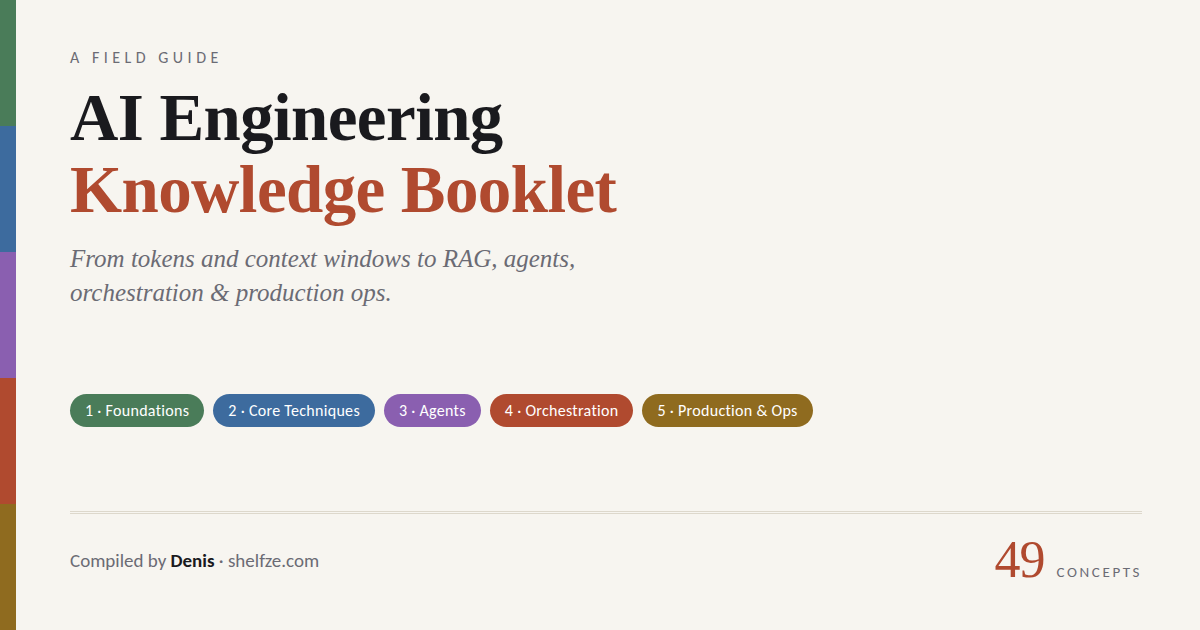
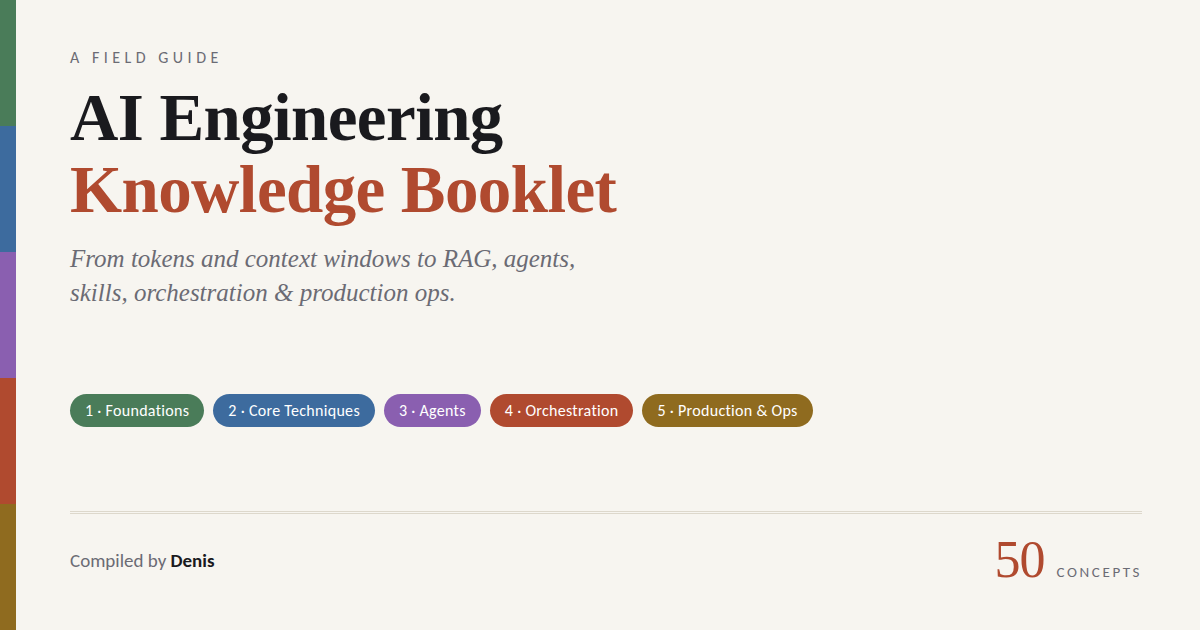
Add Agent Skills concept and remove site from byline
Adds a 50th concept card (Agent Skills) to Level 3, after MCP: SKILL.md structure, three-level progressive disclosure, and why the description field is the trigger. Removes the site link from the byline, the preview card, configure.sh and the README. Updates the count from 49 to 50 in the title, Open Graph and Twitter tags, and regenerates og-image.png.

Changed region(s): [[0.0617, 0.4524, 0.37, 0.4825], [0.8325, 0.8444, 0.8633, 0.9349], [0.185, 0.8746, 0.2775, 0.9048]]

diff --git a/index.html b/index.html
@@ -3,7 +3,7 @@
 <head>
 <meta charset="UTF-8">
 <meta name="viewport" content="width=device-width, initial-scale=1.0">
-<title>AI Engineering Knowledge Booklet — 49 concepts from LLM basics to multi-agent orchestration</title>
+<title>AI Engineering Knowledge Booklet — 50 concepts from LLM basics to multi-agent orchestration</title>
 <meta name="description" content="From tokens and context windows to RAG, agents, orchestration and production ops. Every concept has a quick explanation, a deep dive and curated links.">
 <meta name="author" content="Denis">
 <meta name="theme-color" content="#f7f5f0">
@@ -13,7 +13,7 @@
 <!-- Open Graph (LinkedIn, Facebook, Slack) -->
 <meta property="og:type" content="website">
 <meta property="og:site_name" content="AI Engineering Knowledge Booklet">
-<meta property="og:title" content="AI Engineering Knowledge Booklet — 49 concepts, one page">
+<meta property="og:title" content="AI Engineering Knowledge Booklet — 50 concepts, one page">
 <meta property="og:description" content="From tokens and context windows to RAG, agents, orchestration and production ops. Every concept has a quick explanation, a deep dive and curated links.">
 <meta property="og:url" content="https://jsitla.github.io/AI-Knowledge-Booklet/">
 <meta property="og:image" content="https://jsitla.github.io/AI-Knowledge-Booklet/og-image.png">
@@ -21,15 +21,15 @@
 <meta property="og:image:type" content="image/png">
 <meta property="og:image:width" content="1200">
 <meta property="og:image:height" content="630">
-<meta property="og:image:alt" content="AI Engineering Knowledge Booklet — 49 concepts across five levels, from foundations to production and ops.">
+<meta property="og:image:alt" content="AI Engineering Knowledge Booklet — 50 concepts across five levels, from foundations to production and ops.">
 <meta property="og:locale" content="en_US">
 
 <!-- Twitter / X -->
 <meta name="twitter:card" content="summary_large_image">
-<meta name="twitter:title" content="AI Engineering Knowledge Booklet — 49 concepts, one page">
+<meta name="twitter:title" content="AI Engineering Knowledge Booklet — 50 concepts, one page">
 <meta name="twitter:description" content="From tokens and context windows to RAG, agents, orchestration and production ops. Every concept has a quick explanation, a deep dive and curated links.">
 <meta name="twitter:image" content="https://jsitla.github.io/AI-Knowledge-Booklet/og-image.png">
-<meta name="twitter:image:alt" content="AI Engineering Knowledge Booklet — 49 concepts across five levels.">
+<meta name="twitter:image:alt" content="AI Engineering Knowledge Booklet — 50 concepts across five levels.">
 <style>
   :root{
     --bg:#f7f5f0; --card:#ffffff; --ink:#1a1a1e; --muted:#6b6b74; --line:#e5e1d8;
@@ -93,7 +93,7 @@
     <h1>AI Engineering Knowledge Booklet</h1>
     <div class="sub">A field guide to concepts, techniques &amp; skills — from LLM basics to multi-agent orchestration</div>
     <div class="meta">Compiled July 2026 · Click any concept to open the deep dive &amp; links</div>
-    <div class="byline">By Denis · <a href="https://shelfze.com" target="_blank" rel="noopener">shelfze.com</a></div>
+    <div class="byline">By Denis</div>
   </header>
 
   <div class="controls">
@@ -287,6 +287,11 @@ links:[{k:"paper",t:"ReAct: Synergizing Reasoning and Acting (Yao et al.)",u:"ht
 q:"MCP standardizes how AI apps discover and call external capabilities. A service (Slack, GitHub, your internal DB) exposes an MCP server describing its tools; any MCP-capable client (Claude, IDEs, custom agents) can connect and use them. Write the integration once, use it from every agent.",
 d:["Introduced by Anthropic in late 2024 and adopted industry-wide (OpenAI, Google, Microsoft), MCP defines servers (expose tools, resources, prompts), clients (the AI app), and transports (stdio for local, HTTP for remote). Thousands of community servers exist for common services.","For engineers, two sides: <i>consuming</i> MCP servers (wiring connectors into your agent — mind token bloat from too many tool schemas, and security of third-party servers) and <i>building</i> them (FastMCP in Python, the TypeScript SDK — apply all the tool-design craft above). MCP plus prompt injection is a real risk surface: a malicious document reaching a powerful tool set can exfiltrate data, so scope permissions carefully."],
 links:[{k:"docs",t:"modelcontextprotocol.io — official docs",u:"https://modelcontextprotocol.io/"},{k:"article",t:"Anthropic — Introducing MCP",u:"https://www.anthropic.com/news/model-context-protocol"},{k:"repo",t:"MCP servers directory (GitHub)",u:"https://github.com/modelcontextprotocol/servers"}]},
+
+{lv:3,t:"Agent Skills",o:"Folders of instructions an agent loads only when the task calls for them — packaging know-how the way tools package actions.",
+q:"A skill is a folder containing a SKILL.md file: a name, a description of when to use it, and the instructions themselves. Tools give an agent things it can do; skills give it procedures — a house style, a checklist, a multi-step workflow — without occupying context until they are actually needed.",
+d:["The mechanism is <b>progressive disclosure</b>, in three levels. At startup the agent sees only each skill's name and description (~100 tokens apiece). When a request matches, the SKILL.md body loads (kept under ~5k tokens). Bundled resources — reference files, templates, scripts — cost nothing until used, and a bundled script can run in the shell so only its output enters context, never its source. That is what lets a skill carry a whole API reference or a long style guide at no standing context cost.","The craft sits almost entirely in the <b>description</b>: it is the trigger, so it must say what the skill does <i>and</i> when to reach for it, in the words someone would actually use. Keep SKILL.md short and push detail into reference files read on demand; prefer a deterministic script over prose for any step that shouldn't be re-derived on every run. The failure modes are symmetrical — a vague description means the skill never fires, an over-broad one means it fires on everything, and a bloated SKILL.md defeats the point. Skills and MCP are complements rather than rivals: MCP connects an agent to systems, skills teach it procedures."],
+links:[{k:"essay",t:"Anthropic — Equipping agents for the real world with Agent Skills",u:"https://www.anthropic.com/engineering/equipping-agents-for-the-real-world-with-agent-skills"},{k:"docs",t:"Agent Skills — overview & SKILL.md format",u:"https://platform.claude.com/docs/en/agents-and-tools/agent-skills/overview"},{k:"repo",t:"anthropics/skills — spec, template and examples",u:"https://github.com/anthropics/skills"},{k:"article",t:"Anthropic — Introducing Agent Skills",u:"https://www.anthropic.com/news/skills"}]},
 
 {lv:3,t:"Coding Agents",o:"Agents that write software: read a codebase, edit files, run tests, iterate until green. The most mature agent category.",
 q:"Tools like Claude Code, Cursor, Codex and Copilot agents take a task ('add auth to this endpoint'), explore the repository, make edits, run the tests, read the failures, and fix them — the verification loop (compile/test) is what makes coding the best-suited domain for agents.",

diff --git a/index.template.html b/index.template.html
@@ -3,7 +3,7 @@
 <head>
 <meta charset="UTF-8">
 <meta name="viewport" content="width=device-width, initial-scale=1.0">
-<title>AI Engineering Knowledge Booklet — 49 concepts from LLM basics to multi-agent orchestration</title>
+<title>AI Engineering Knowledge Booklet — 50 concepts from LLM basics to multi-agent orchestration</title>
 <meta name="description" content="From tokens and context windows to RAG, agents, orchestration and production ops. Every concept has a quick explanation, a deep dive and curated links.">
 <meta name="author" content="__AUTHOR__">
 <meta name="theme-color" content="#f7f5f0">
@@ -13,7 +13,7 @@
 <!-- Open Graph (LinkedIn, Facebook, Slack) -->
 <meta property="og:type" content="website">
 <meta property="og:site_name" content="AI Engineering Knowledge Booklet">
-<meta property="og:title" content="AI Engineering Knowledge Booklet — 49 concepts, one page">
+<meta property="og:title" content="AI Engineering Knowledge Booklet — 50 concepts, one page">
 <meta property="og:description" content="From tokens and context windows to RAG, agents, orchestration and production ops. Every concept has a quick explanation, a deep dive and curated links.">
 <meta property="og:url" content="__SITE_URL__">
 <meta property="og:image" content="__SITE_URL__og-image.png">
@@ -21,15 +21,15 @@
 <meta property="og:image:type" content="image/png">
 <meta property="og:image:width" content="1200">
 <meta property="og:image:height" content="630">
-<meta property="og:image:alt" content="AI Engineering Knowledge Booklet — 49 concepts across five levels, from foundations to production and ops.">
+<meta property="og:image:alt" content="AI Engineering Knowledge Booklet — 50 concepts across five levels, from foundations to production and ops.">
 <meta property="og:locale" content="en_US">
 
 <!-- Twitter / X -->
 <meta name="twitter:card" content="summary_large_image">
-<meta name="twitter:title" content="AI Engineering Knowledge Booklet — 49 concepts, one page">
+<meta name="twitter:title" content="AI Engineering Knowledge Booklet — 50 concepts, one page">
 <meta name="twitter:description" content="From tokens and context windows to RAG, agents, orchestration and production ops. Every concept has a quick explanation, a deep dive and curated links.">
 <meta name="twitter:image" content="__SITE_URL__og-image.png">
-<meta name="twitter:image:alt" content="AI Engineering Knowledge Booklet — 49 concepts across five levels.">
+<meta name="twitter:image:alt" content="AI Engineering Knowledge Booklet — 50 concepts across five levels.">
 <style>
   :root{
     --bg:#f7f5f0; --card:#ffffff; --ink:#1a1a1e; --muted:#6b6b74; --line:#e5e1d8;
@@ -287,6 +287,11 @@ links:[{k:"paper",t:"ReAct: Synergizing Reasoning and Acting (Yao et al.)",u:"ht
 q:"MCP standardizes how AI apps discover and call external capabilities. A service (Slack, GitHub, your internal DB) exposes an MCP server describing its tools; any MCP-capable client (Claude, IDEs, custom agents) can connect and use them. Write the integration once, use it from every agent.",
 d:["Introduced by Anthropic in late 2024 and adopted industry-wide (OpenAI, Google, Microsoft), MCP defines servers (expose tools, resources, prompts), clients (the AI app), and transports (stdio for local, HTTP for remote). Thousands of community servers exist for common services.","For engineers, two sides: <i>consuming</i> MCP servers (wiring connectors into your agent — mind token bloat from too many tool schemas, and security of third-party servers) and <i>building</i> them (FastMCP in Python, the TypeScript SDK — apply all the tool-design craft above). MCP plus prompt injection is a real risk surface: a malicious document reaching a powerful tool set can exfiltrate data, so scope permissions carefully."],
 links:[{k:"docs",t:"modelcontextprotocol.io — official docs",u:"https://modelcontextprotocol.io/"},{k:"article",t:"Anthropic — Introducing MCP",u:"https://www.anthropic.com/news/model-context-protocol"},{k:"repo",t:"MCP servers directory (GitHub)",u:"https://github.com/modelcontextprotocol/servers"}]},
+
+{lv:3,t:"Agent Skills",o:"Folders of instructions an agent loads only when the task calls for them — packaging know-how the way tools package actions.",
+q:"A skill is a folder containing a SKILL.md file: a name, a description of when to use it, and the instructions themselves. Tools give an agent things it can do; skills give it procedures — a house style, a checklist, a multi-step workflow — without occupying context until they are actually needed.",
+d:["The mechanism is <b>progressive disclosure</b>, in three levels. At startup the agent sees only each skill's name and description (~100 tokens apiece). When a request matches, the SKILL.md body loads (kept under ~5k tokens). Bundled resources — reference files, templates, scripts — cost nothing until used, and a bundled script can run in the shell so only its output enters context, never its source. That is what lets a skill carry a whole API reference or a long style guide at no standing context cost.","The craft sits almost entirely in the <b>description</b>: it is the trigger, so it must say what the skill does <i>and</i> when to reach for it, in the words someone would actually use. Keep SKILL.md short and push detail into reference files read on demand; prefer a deterministic script over prose for any step that shouldn't be re-derived on every run. The failure modes are symmetrical — a vague description means the skill never fires, an over-broad one means it fires on everything, and a bloated SKILL.md defeats the point. Skills and MCP are complements rather than rivals: MCP connects an agent to systems, skills teach it procedures."],
+links:[{k:"essay",t:"Anthropic — Equipping agents for the real world with Agent Skills",u:"https://www.anthropic.com/engineering/equipping-agents-for-the-real-world-with-agent-skills"},{k:"docs",t:"Agent Skills — overview & SKILL.md format",u:"https://platform.claude.com/docs/en/agents-and-tools/agent-skills/overview"},{k:"repo",t:"anthropics/skills — spec, template and examples",u:"https://github.com/anthropics/skills"},{k:"article",t:"Anthropic — Introducing Agent Skills",u:"https://www.anthropic.com/news/skills"}]},
 
 {lv:3,t:"Coding Agents",o:"Agents that write software: read a codebase, edit files, run tests, iterate until green. The most mature agent category.",
 q:"Tools like Claude Code, Cursor, Codex and Copilot agents take a task ('add auth to this endpoint'), explore the repository, make edits, run the tests, read the failures, and fix them — the verification loop (compile/test) is what makes coding the best-suited domain for agents.",

diff --git a/README.md b/README.md
@@ -1,6 +1,6 @@
 # AI Engineering Knowledge Booklet
 
-A single-page, searchable field guide to 49 AI engineering concepts, from tokens and
+A single-page, searchable field guide to 50 AI engineering concepts, from tokens and
 context windows up to multi-agent orchestration and production ops. Every concept has a
 one-line definition, a "quick grasp" explanation, a deep dive, and links to primary sources.
 
@@ -61,11 +61,11 @@ stick around for a long time. Inspect *before* you post.
 
 ## Using a custom domain instead
 
-If you'd rather serve it from `shelfze.com`:
+If you'd rather serve it from your own domain:
 
-1. Put your domain in `configure.sh` as `SITE_URL` (e.g. `https://shelfze.com/ai-booklet/`)
+1. Put your domain in `configure.sh` as `SITE_URL` (e.g. `https://example.com/ai-booklet/`)
    and re-run it.
-2. Add a file named `CNAME` containing just `shelfze.com`.
+2. Add a file named `CNAME` containing just your domain.
 3. Point a `CNAME` DNS record at `<your-username>.github.io` (or, for an apex domain, four
    `A` records at GitHub's Pages IPs — GitHub's docs list the current ones).
 4. In **Settings → Pages**, enter the custom domain and tick *Enforce HTTPS* once the
@@ -76,7 +76,7 @@ If you'd rather serve it from `shelfze.com`:
 Edit `index.template.html`, then run `bash configure.sh` to regenerate `index.html` — if you
 edit `index.html` directly, your changes are overwritten the next time that script runs.
 
-All 49 concepts live in three `<script>` blocks near the bottom of the file, as a plain
+All 50 concepts live in three `<script>` blocks near the bottom of the file, as a plain
 JavaScript array. Each entry looks like:
 
 ```js
